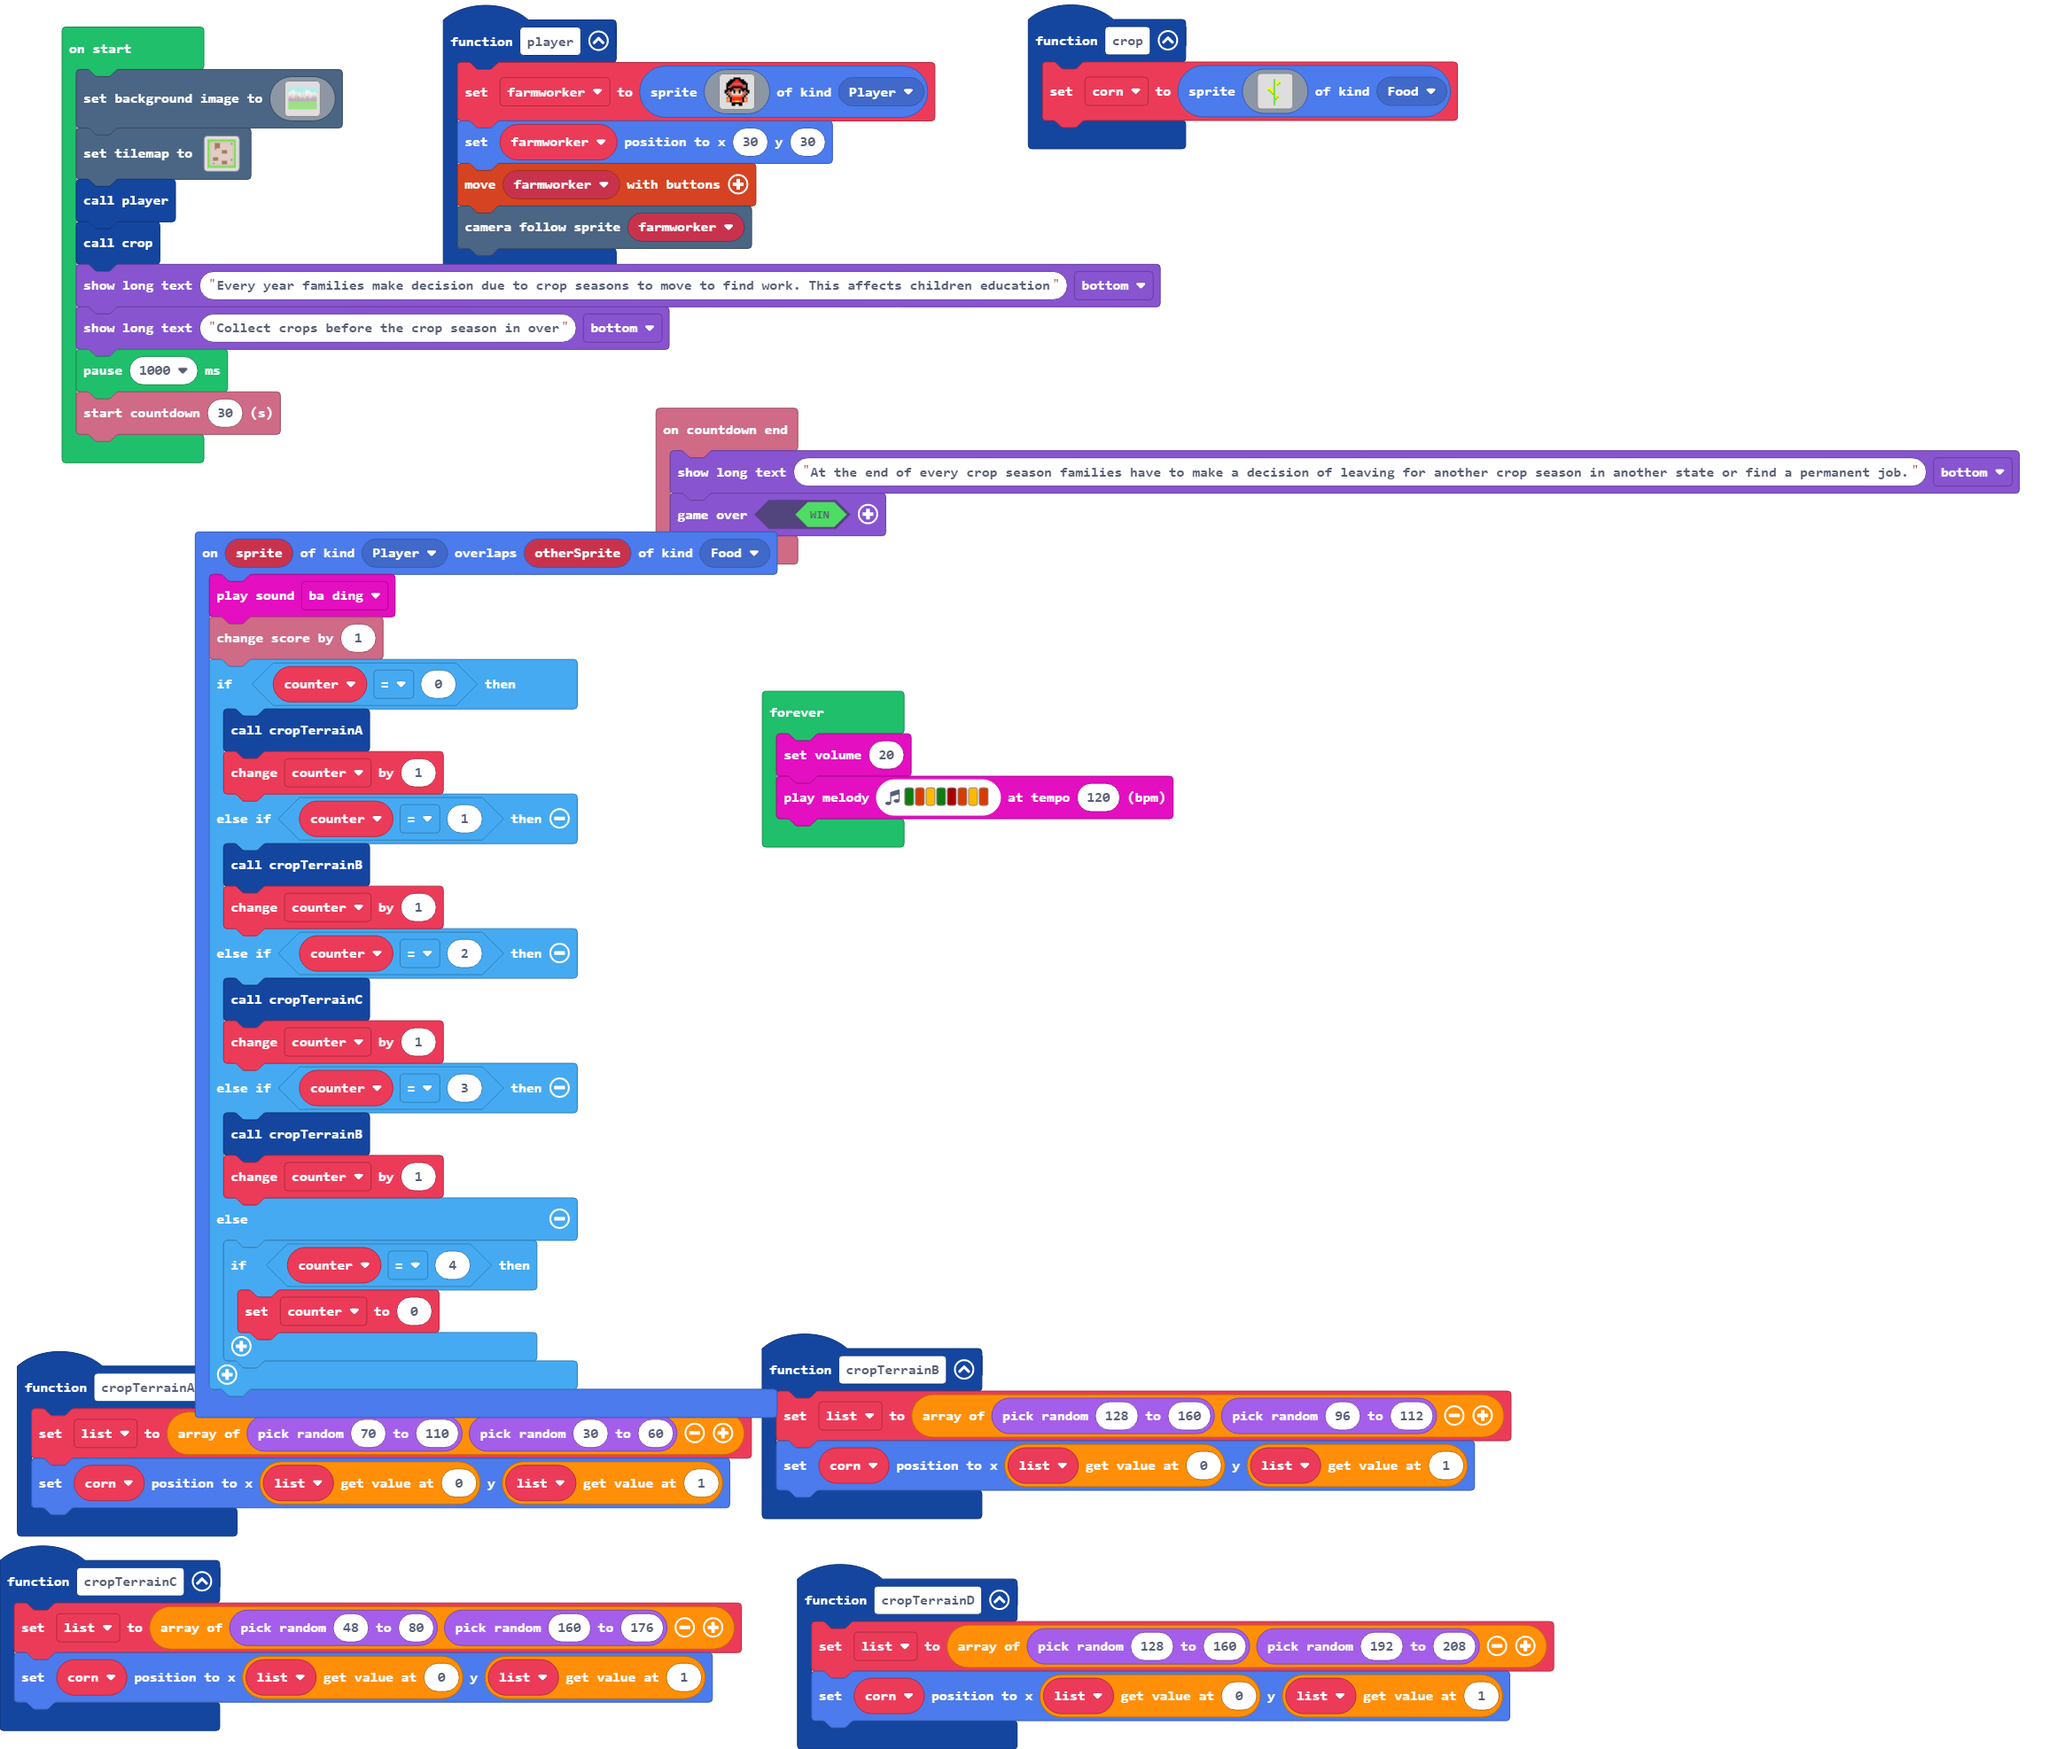
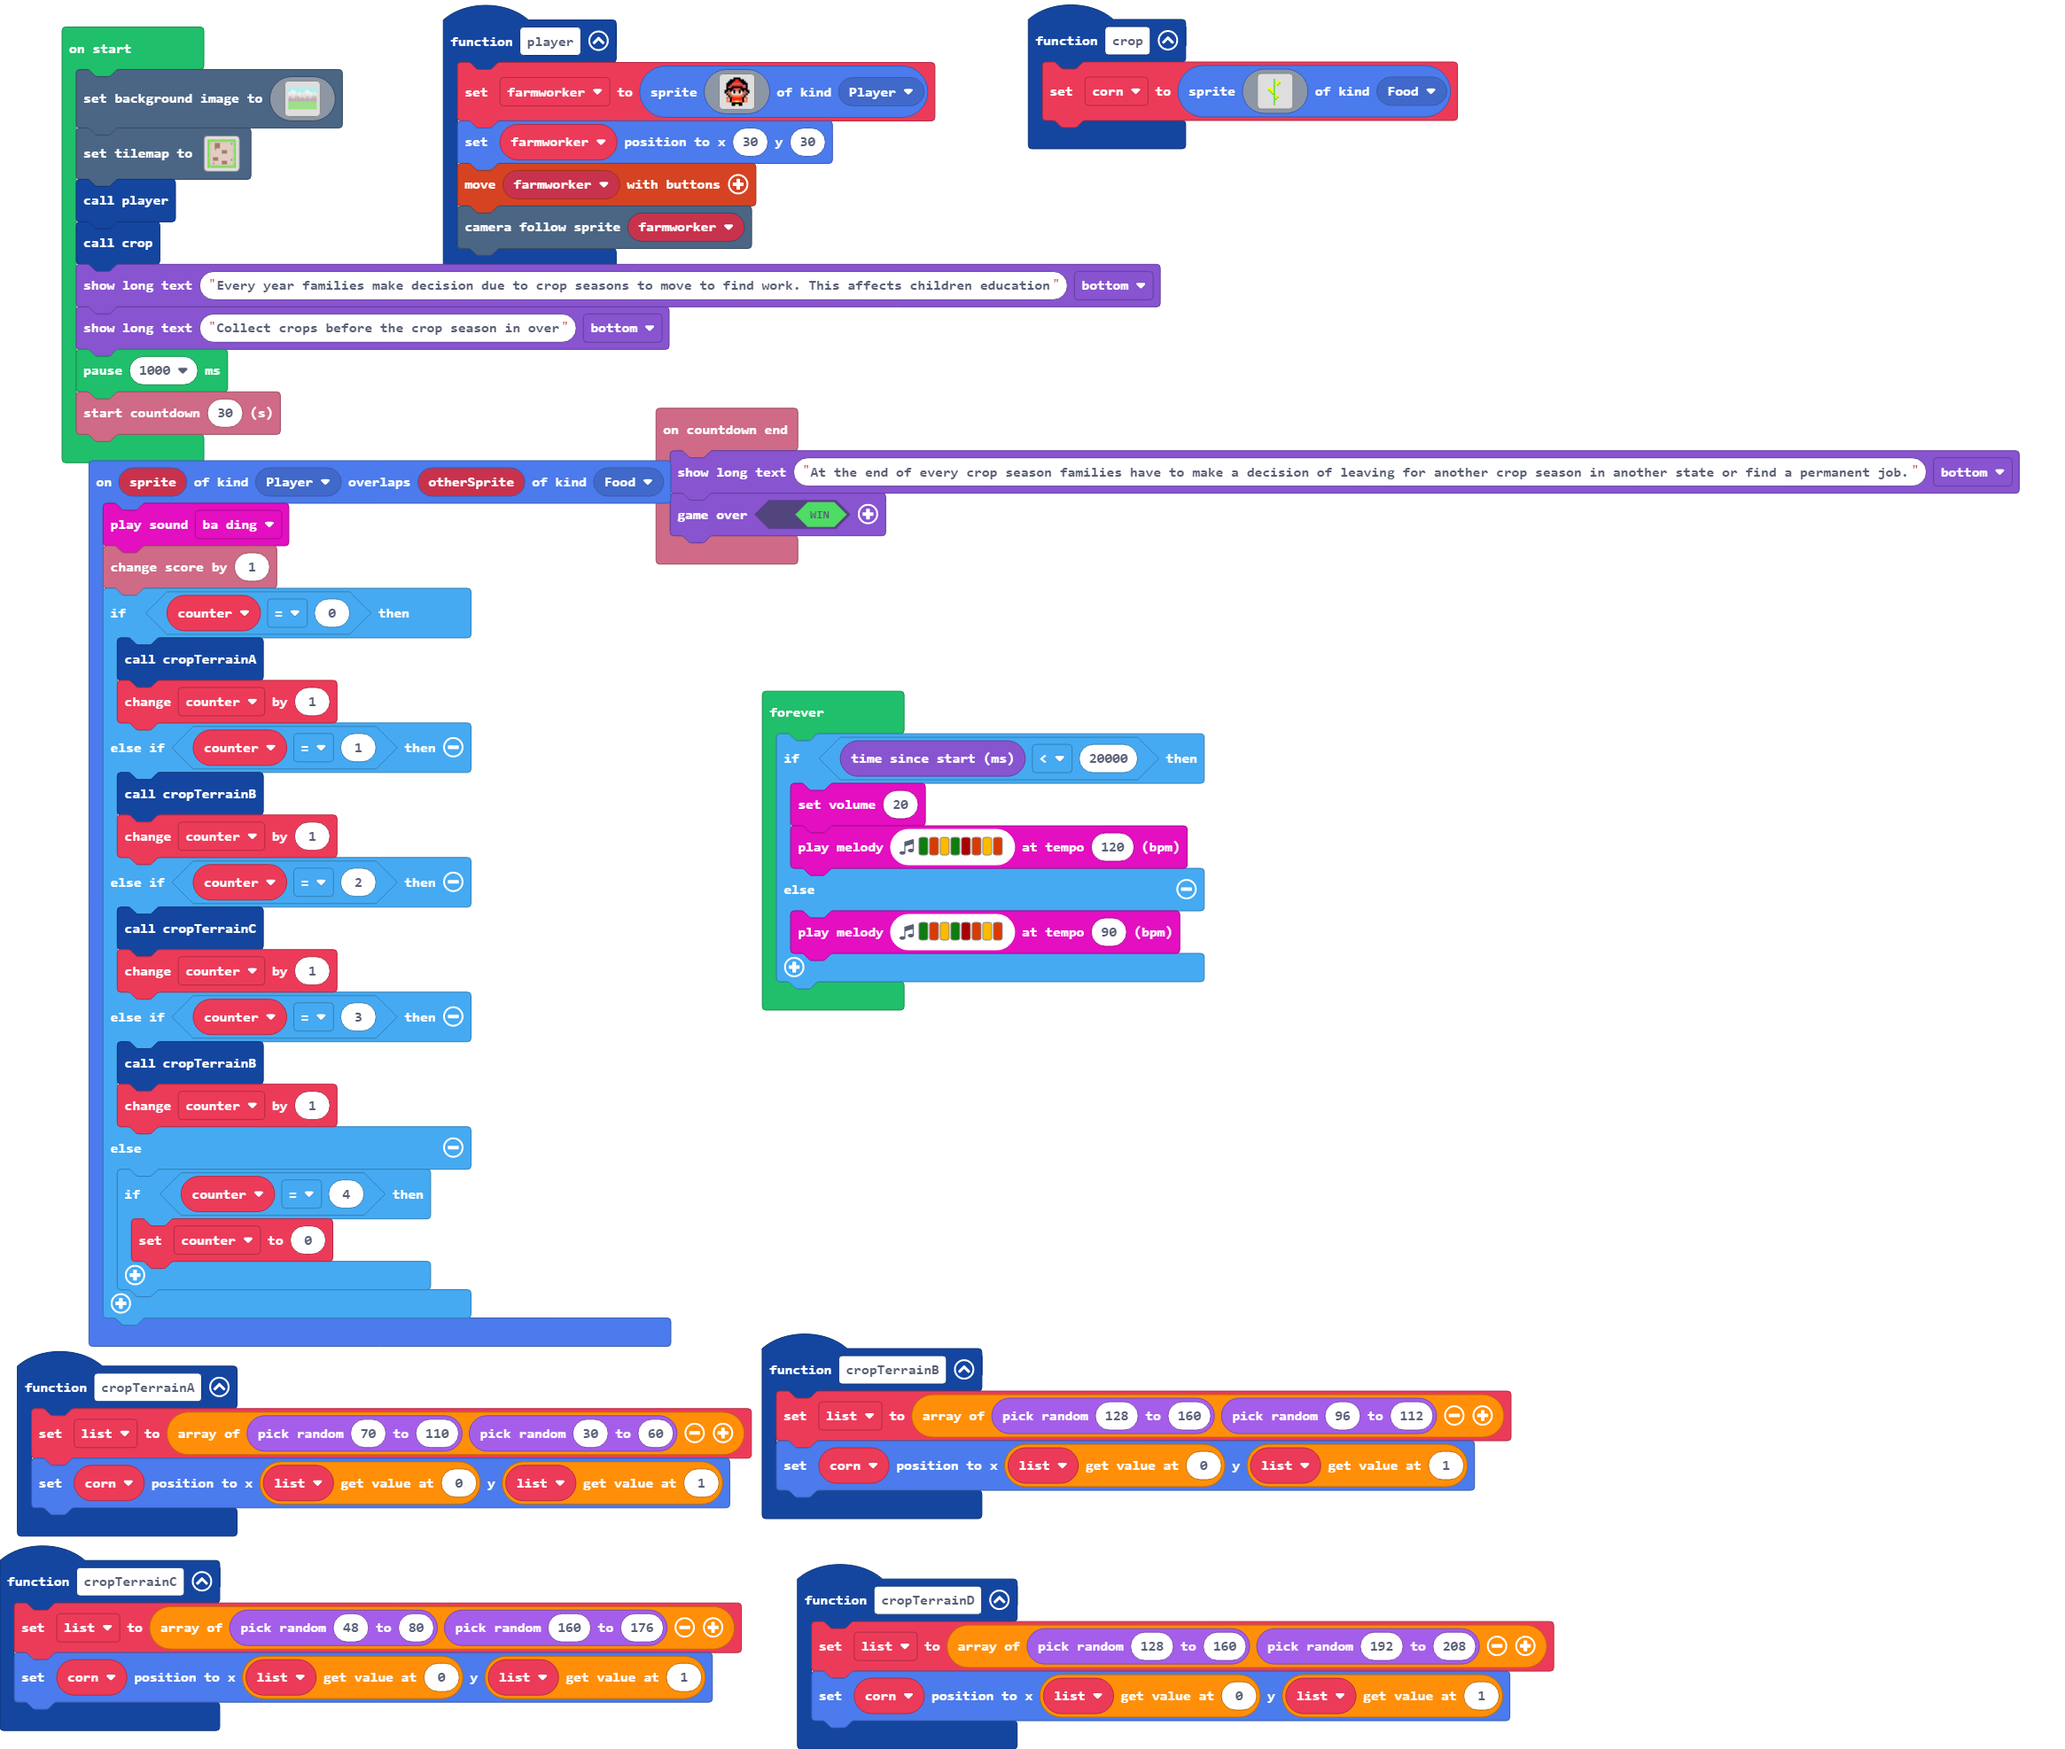
Update main.blocks, main.ts

Changed region(s): [[0.0309, 0.2472, 0.4017, 0.8343], [0.3708, 0.4017, 0.5871, 0.5871]]

diff --git a/main.ts b/main.ts
@@ -199,6 +199,10 @@ game.showLongText("Collect crops before the crop season in over", DialogLayout.B
 pause(1000)
 info.startCountdown(30)
 forever(function () {
-    music.setVolume(20)
-    music.playMelody("G B A G C5 B A B ", 120)
+    if (game.runtime() < 20000) {
+        music.setVolume(20)
+        music.playMelody("G B A G C5 B A B ", 120)
+    } else {
+        music.playMelody("G B A G C5 B A B ", 90)
+    }
 })
